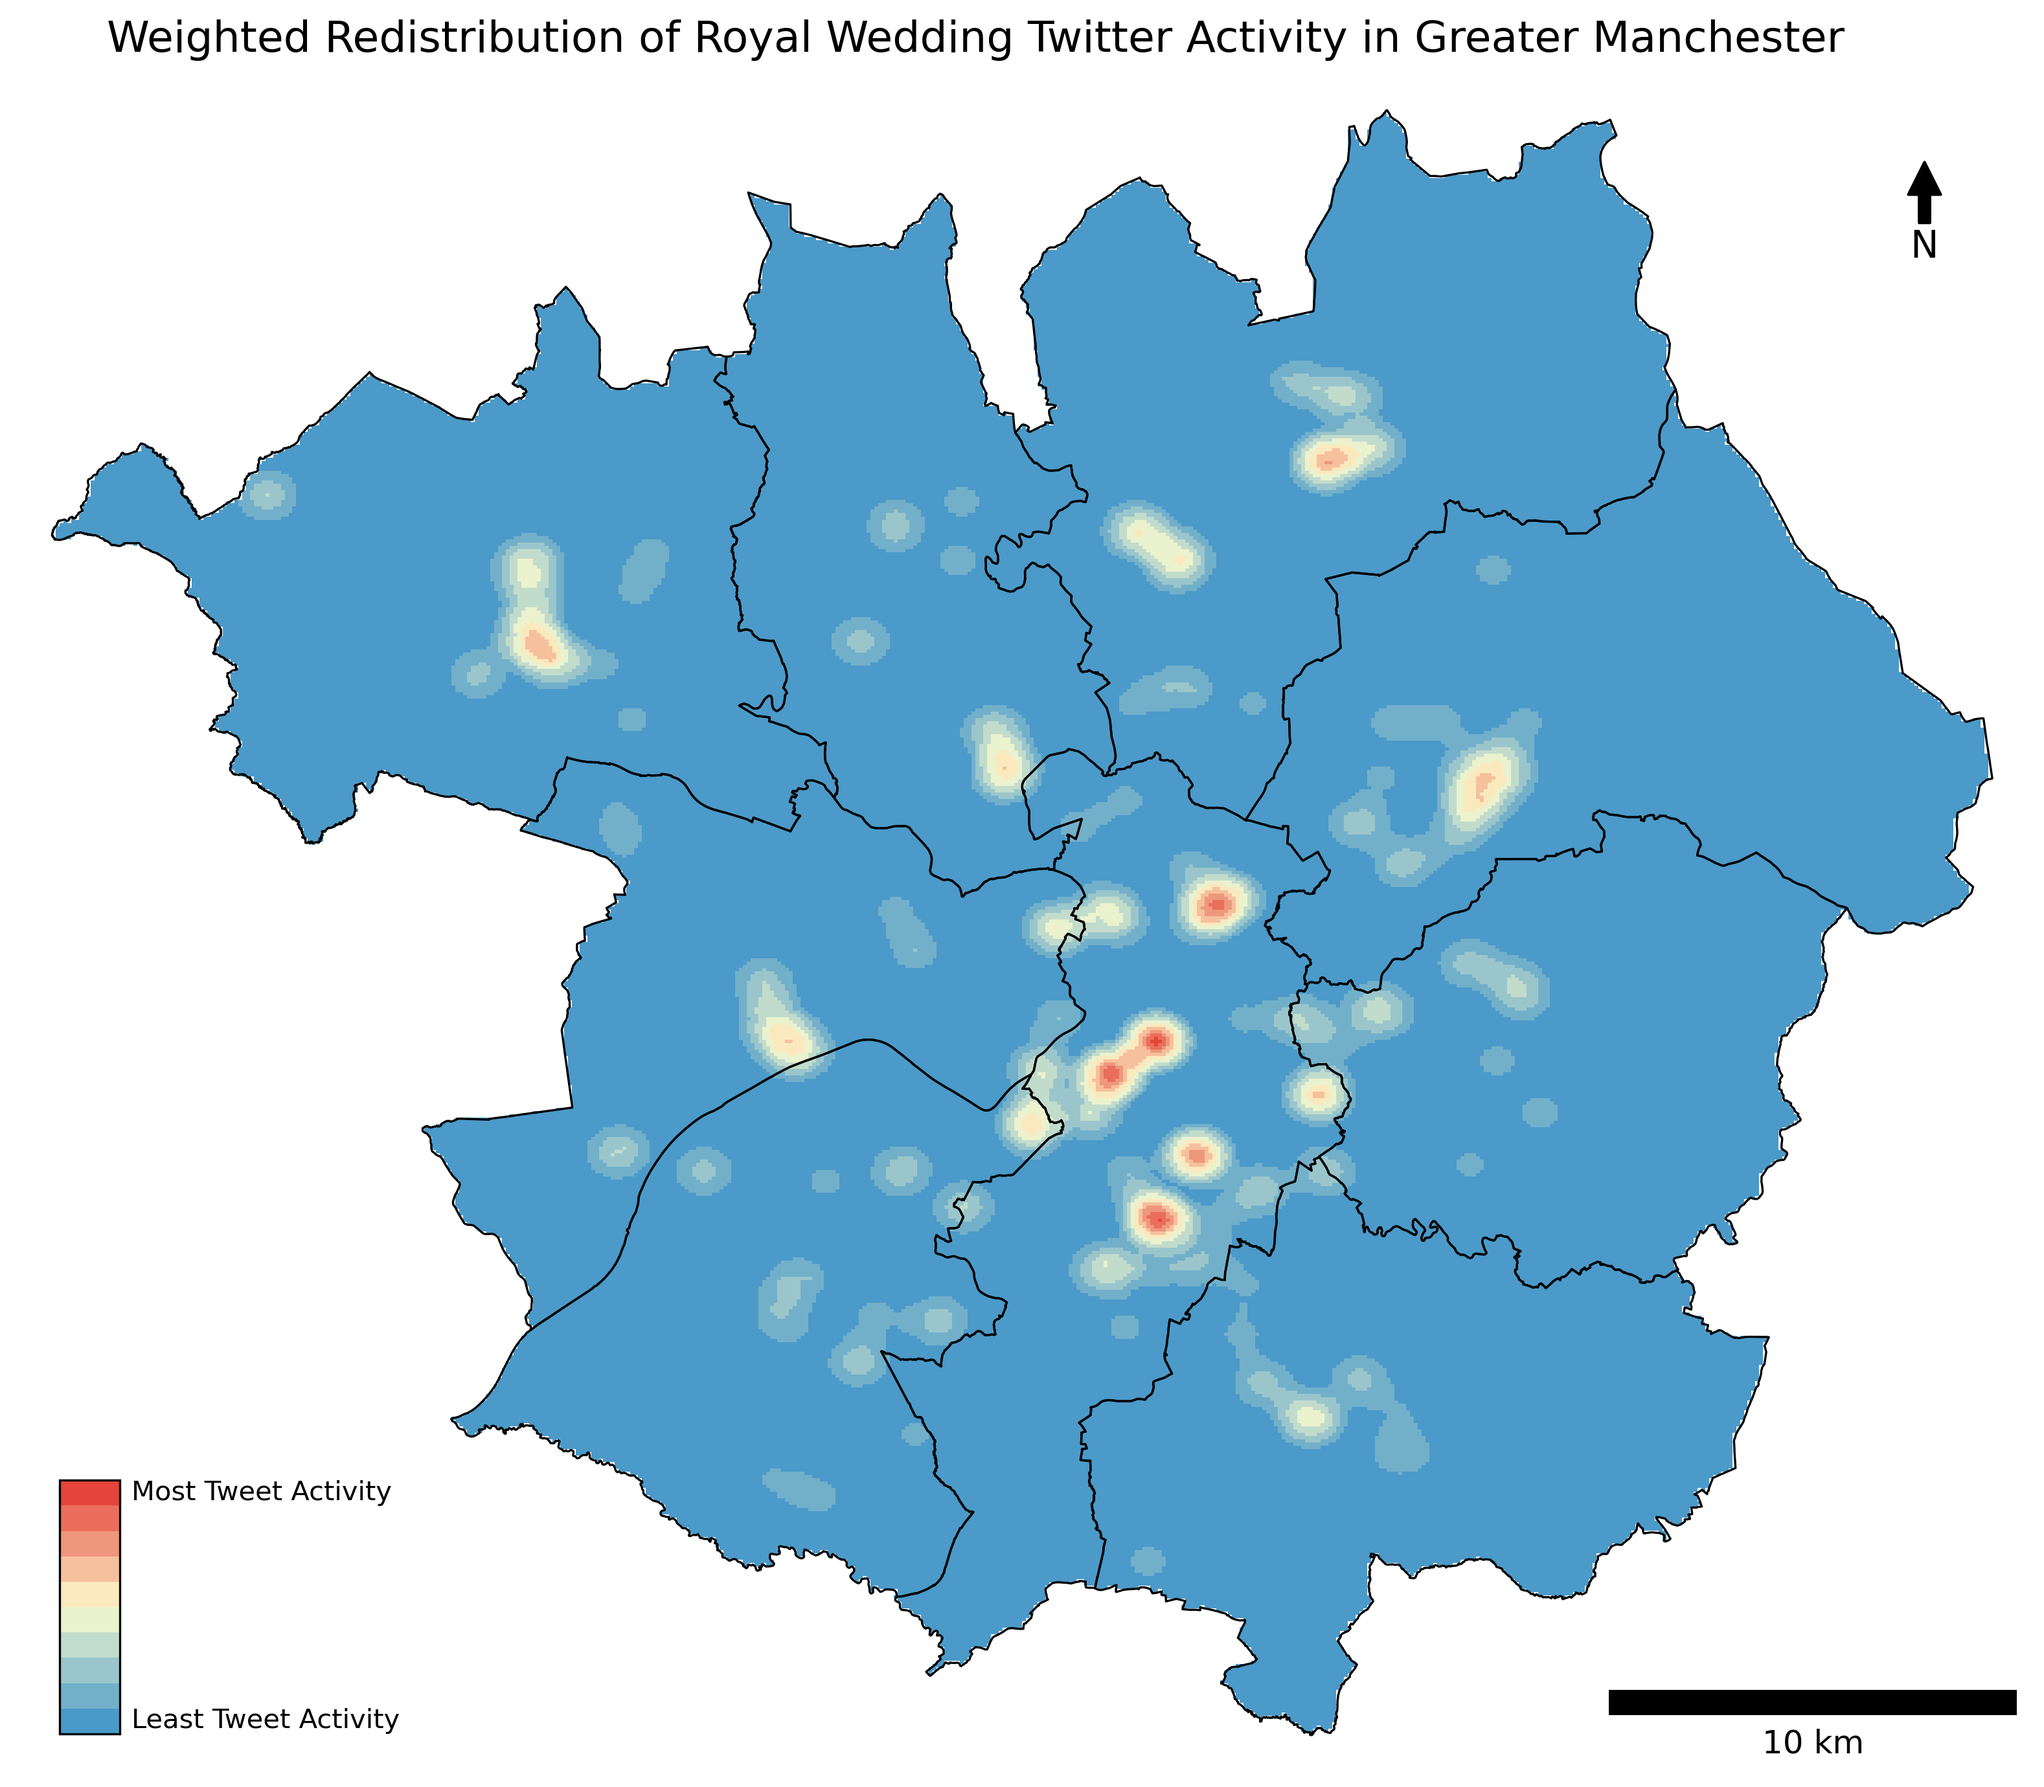
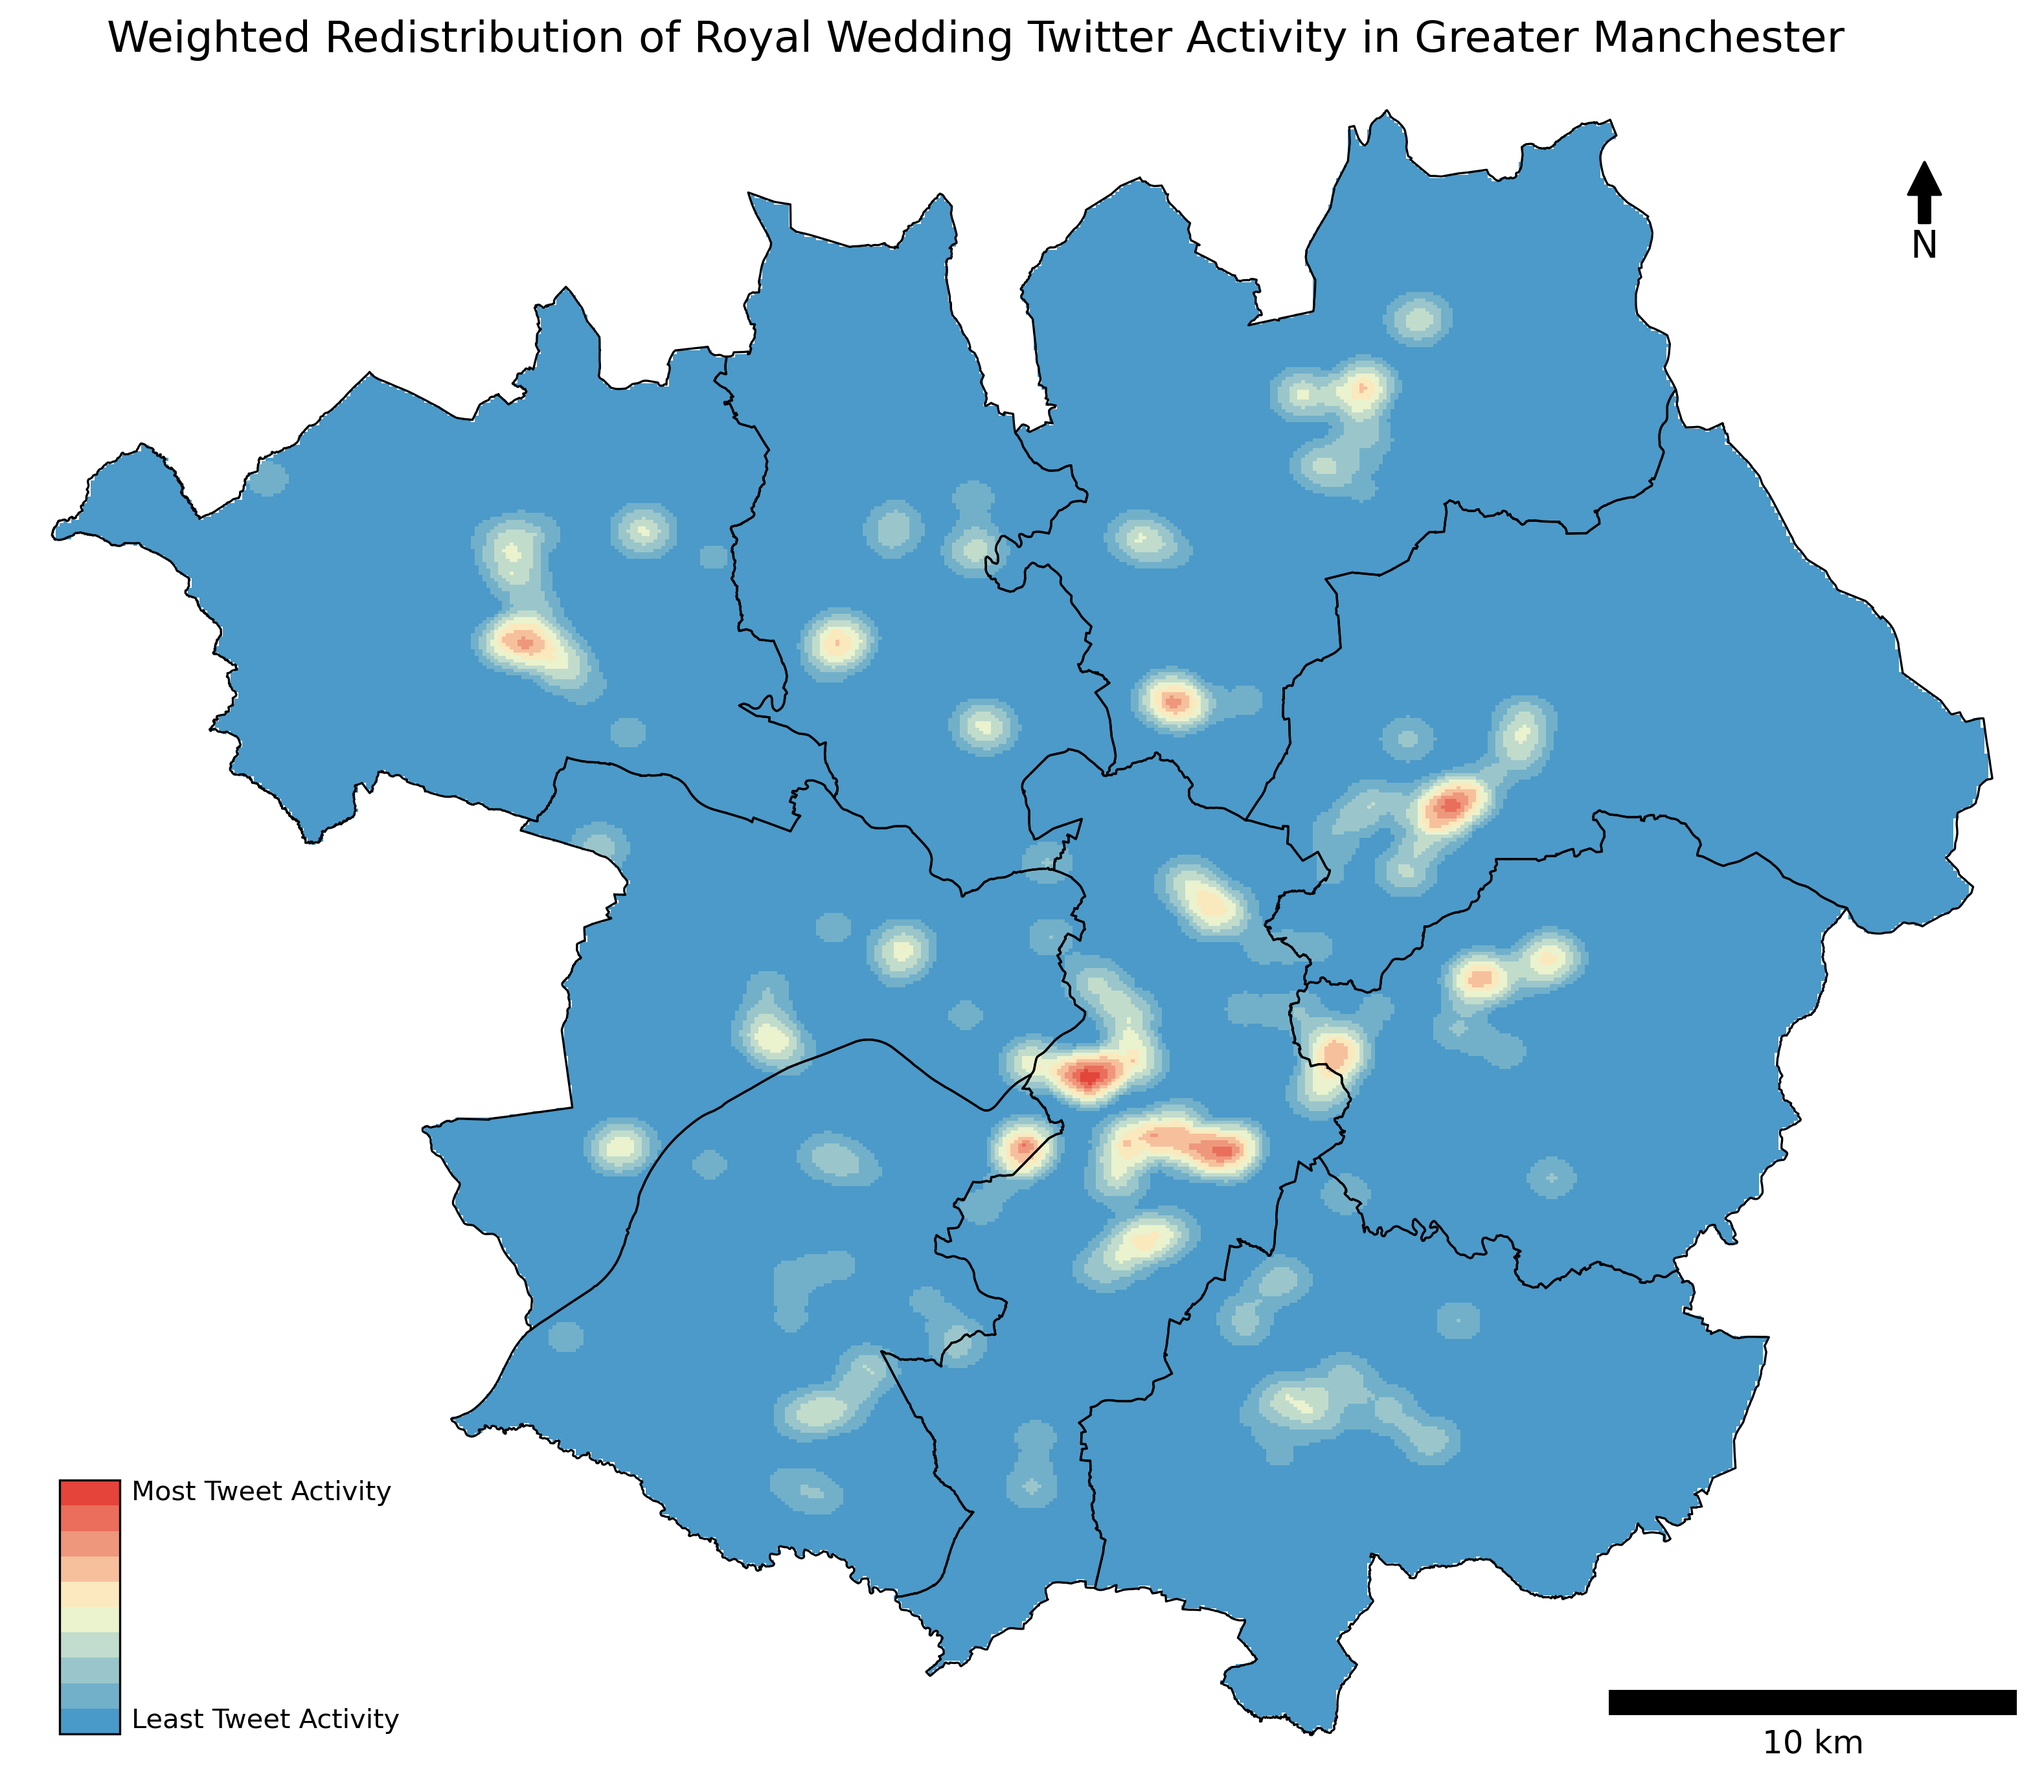
Solve Name Error & improve logic

diff --git a/assessment2.py b/assessment2.py
@@ -21,25 +21,23 @@ from shapely import Point, minimum_bounding_circle
 from matplotlib_scalebar.scalebar import ScaleBar
 from matplotlib.colors import LinearSegmentedColormap
 
-# 1.Set running foundation
+# 1.Load all required GIS data files
 def load_gis_data():
-    
-    # Load data
     tweets = gpd.read_file("./data/wr/level3-tweets-subset.shp")
     gm_districts = gpd.read_file("./data/wr/gm-districts.shp")
     pop_raster = rasterio.open("./data/wr/100m_pop_2019.tif")
     
     # Merge boundaries to get study area
-    gm_global_geom = gm_districts.unary_union
-    gm_bounds = gm_global_geom.bounds
-    return tweets, pop_raster, gm_districts, gm_global_geom, gm_bounds
+    study_area = gm_districts.union_all()
+    area_bounds = study_area.bounds
+    return tweets, pop_raster, gm_districts, study_area, area_bounds
     
 # 2.Generate random points in study area
-def generate_random_points(gm_global_geom, n=500):
+def generate_random_points(study_area, n=500):
     
     # Generate repeatable random points
     np.random.seed(42)
-    min_x, min_y, max_x, max_y = gm_global_geom.bounds
+    min_x, min_y, max_x, max_y = study_area.bounds
 
     # Creat empty list
     valid_points = []
@@ -49,7 +47,7 @@ def generate_random_points(gm_global_geom, n=500):
         x, y = uniform(min_x, max_x), uniform(min_y, max_y)
         
         # Check the point inside the boundary
-        if gm_global_geom.contains(Point(x, y)):
+        if study_area.contains(Point(x, y)):
             valid_points.append(Point(x, y))
     
     return valid_points
@@ -69,39 +67,46 @@ def get_raster_value(point, pop_raster):
         return 0
     
 # 4.Single-point weighted iterative relocation & high-weight filtering
-def relocate_point(random_points, polygon, pop_raster, iterations=10):
+def relocate_point(random_points, area_geom, pop_raster, iterations=10):
     
-    # Calculate minimum bounding circle
-    min_circle_poly = minimum_bounding_circle(gm_global_geom)
-    center = min_circle_poly.centroid
-    min_circle_radius = center.distance(Point(min_circle_poly.exterior.coords[0]))
+    # Calculate minimum bounding circle of the study area to determine the maximum offset range
+    min_circle = minimum_bounding_circle(area_geom)
+    circle_center = min_circle.centroid
+    min_circle_radius = circle_center.distance(Point(min_circle.exterior.coords[0]))
     
-    # Define the fuzziness factor
+    # List to store candidate seed points
     max_offset = min_circle_radius * 0.1
     
     # Creat candidate relocated seed points list
     seed_candidates = []
     
-    # Relocate points and collect weights
+    # Perform iterative relocation for each random point
     for p in random_points:
         
-        # Initialization the optimal point and the optimal weight
-        best_point, max_weight = p, -1
+        # Set initial weight to a small value for easy update
+        best_point = p
+        best_weight = -1
         
-        # Randomly generate the offset direction and distance
+        # Iterate 10 times to find the optimal position with the highest weight
         for _ in range(iterations):
-            relocated = Point(
-                p.x + sin(radians(random()*360)) * (random()*max_offset),
-                p.y + cos(radians(random()*360)) * (random()*max_offset))
+            # Randomly calculate offset angle and distance
+            angle = radians(random() * 360)
+            dist = random() * max_offset
+            new_x = p.x + sin(angle) * dist
+            new_y = p.y + cos(angle) * dist
+            new_p = Point(new_x, new_y)
             
             # Filter points within the range
-            if gm_global_geom.contains(relocated):
-                current_weight = get_raster_value(relocated, pop_raster)
+            if area_geom.contains(new_p):
+                current_weight = get_raster_value(new_p, pop_raster)
                 
                 # Update the candidate point when the weight is higher
-                if current_weight > max_weight:
-                    best_point, max_weight = relocated, current_weight
-        seed_candidates.append((best_point.x, best_point.y, max_weight))
+                if current_weight > best_weight:
+                    best_point = new_p
+                    best_weight = current_weight
+                    
+        # Add the optimal point (after relocation) to candidate list
+        seed_candidates.append((best_point.x, best_point.y, best_weight))
     
     # Sort candidate seed points in descending order
     seed_candidates.sort(key=lambda x: x[2], reverse=True)
@@ -109,19 +114,18 @@ def relocate_point(random_points, polygon, pop_raster, iterations=10):
     # Select the top 35% of high‑weight seed points
     top_seeds = seed_candidates[:int(len(seed_candidates)*0.35)]
     
-    # Extract coordinates of selected seed points
-    seed_coords = np.array([(x, y) for x, y, w in top_seeds])
     
-    # Extract seed points corresponding weights
+    # Split coordinates and weights from top seed points, then convert to numpy array
+    seed_coords = np.array([(x, y) for x, y, w in top_seeds])
     seed_weights = np.array([w for x, y, w in top_seeds])
        
     return seed_coords, seed_weights
 
 # 5.Calculate the weighted density
-def calculate_weighted_density(seed_coords, seed_weights, gm_bounds, gm_global_geom):
+def calculate_weighted_density(seed_coords, seed_weights, area_bounds, gm_global_geom):
 
     # Set boundary
-    x_min, y_min, x_max, y_max = gm_bounds
+    x_min, y_min, x_max, y_max = area_bounds
 
     # Set grid parameters
     grid_size = 500
@@ -185,7 +189,7 @@ def calculate_weighted_density(seed_coords, seed_weights, gm_bounds, gm_global_g
     return X, Y, np.where(shapely.contains_xy(gm_global_geom, X, Y), density, np.nan)
 
 # 6.Drawing the map
-def visualize_hotspot(gm_districts, X, Y, density, gm_bounds, gm_global_geom):
+def visualize_hotspot(gm_districts, X, Y, density, area_bounds, gm_global_geom):
    
     # Generate gradient colours
     colors = ['#368fc3', '#fffeca', '#e13024']
@@ -202,7 +206,7 @@ def visualize_hotspot(gm_districts, X, Y, density, gm_bounds, gm_global_geom):
                  fontsize=16, ha='center')
     
     # Set boundary
-    x_min, y_min, x_max, y_max = gm_bounds
+    x_min, y_min, x_max, y_max = area_bounds
     buffer = min(x_max - x_min, y_max - y_min) / 50
     ax.set_xlim(x_min - buffer, x_max + buffer)
     ax.set_ylim(y_min - buffer, y_max + buffer)
@@ -239,11 +243,11 @@ def visualize_hotspot(gm_districts, X, Y, density, gm_bounds, gm_global_geom):
 # Main program
 if __name__ == "__main__":
     # Full workflow call
-    tweets, pop_raster, gm_districts, gm_global_geom, gm_bounds = load_gis_data()
-    random_points = generate_random_points(gm_global_geom)
-    seed_coords, seed_weights = relocate_point(random_points, gm_global_geom, pop_raster)
-    X, Y, density = calculate_weighted_density(seed_coords, seed_weights, gm_bounds, gm_global_geom)
-    visualize_hotspot(gm_districts, X, Y, density, gm_bounds, gm_global_geom)
+    tweets, pop_raster, gm_districts, study_area, area_bounds = load_gis_data()
+    random_points = generate_random_points(study_area)
+    seed_coords, seed_weights = relocate_point(random_points, study_area, pop_raster)
+    X, Y, density = calculate_weighted_density(seed_coords, seed_weights, area_bounds, study_area)
+    visualize_hotspot(gm_districts, X, Y, density, area_bounds, study_area)
 
 # --- NO CODE BELOW HERE ---
 
